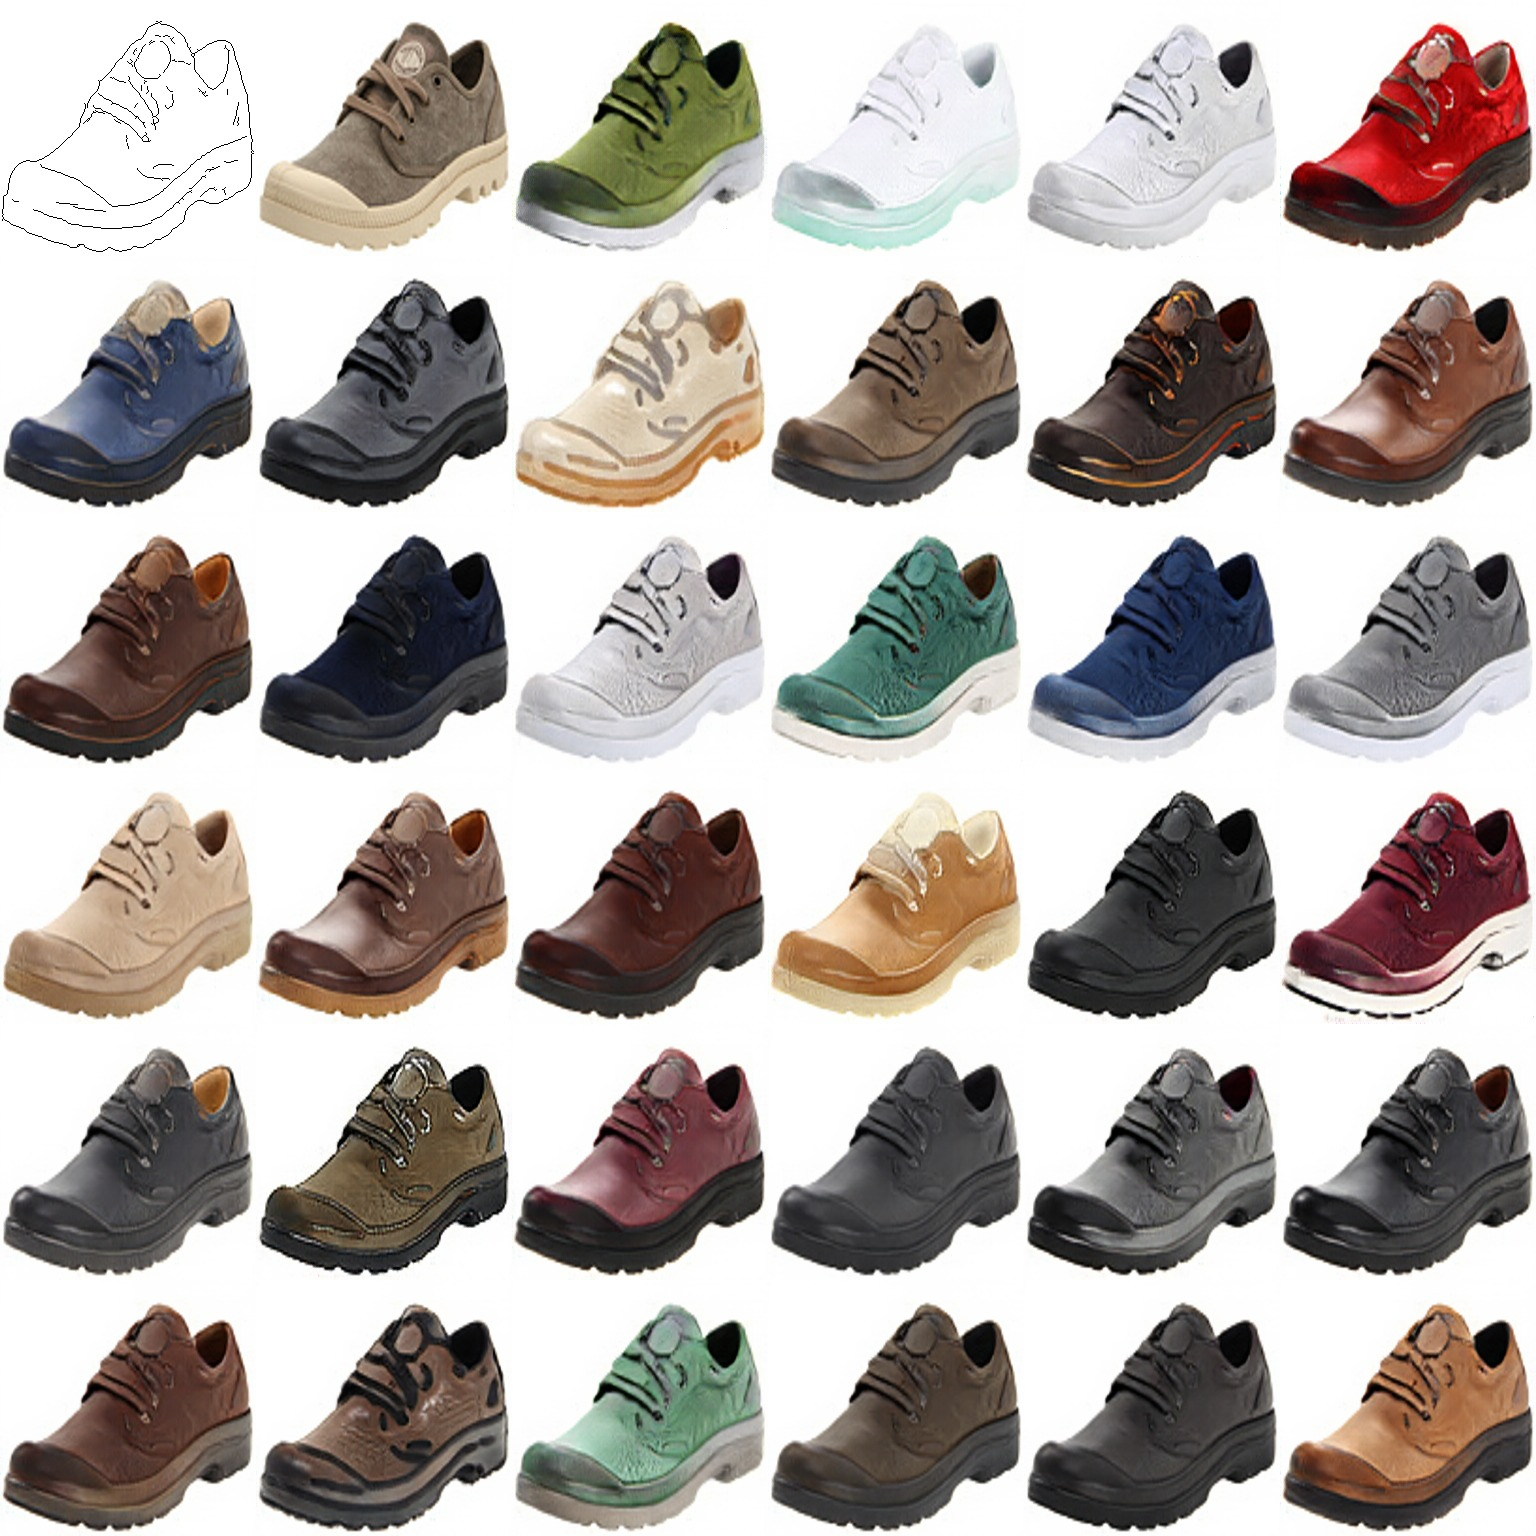
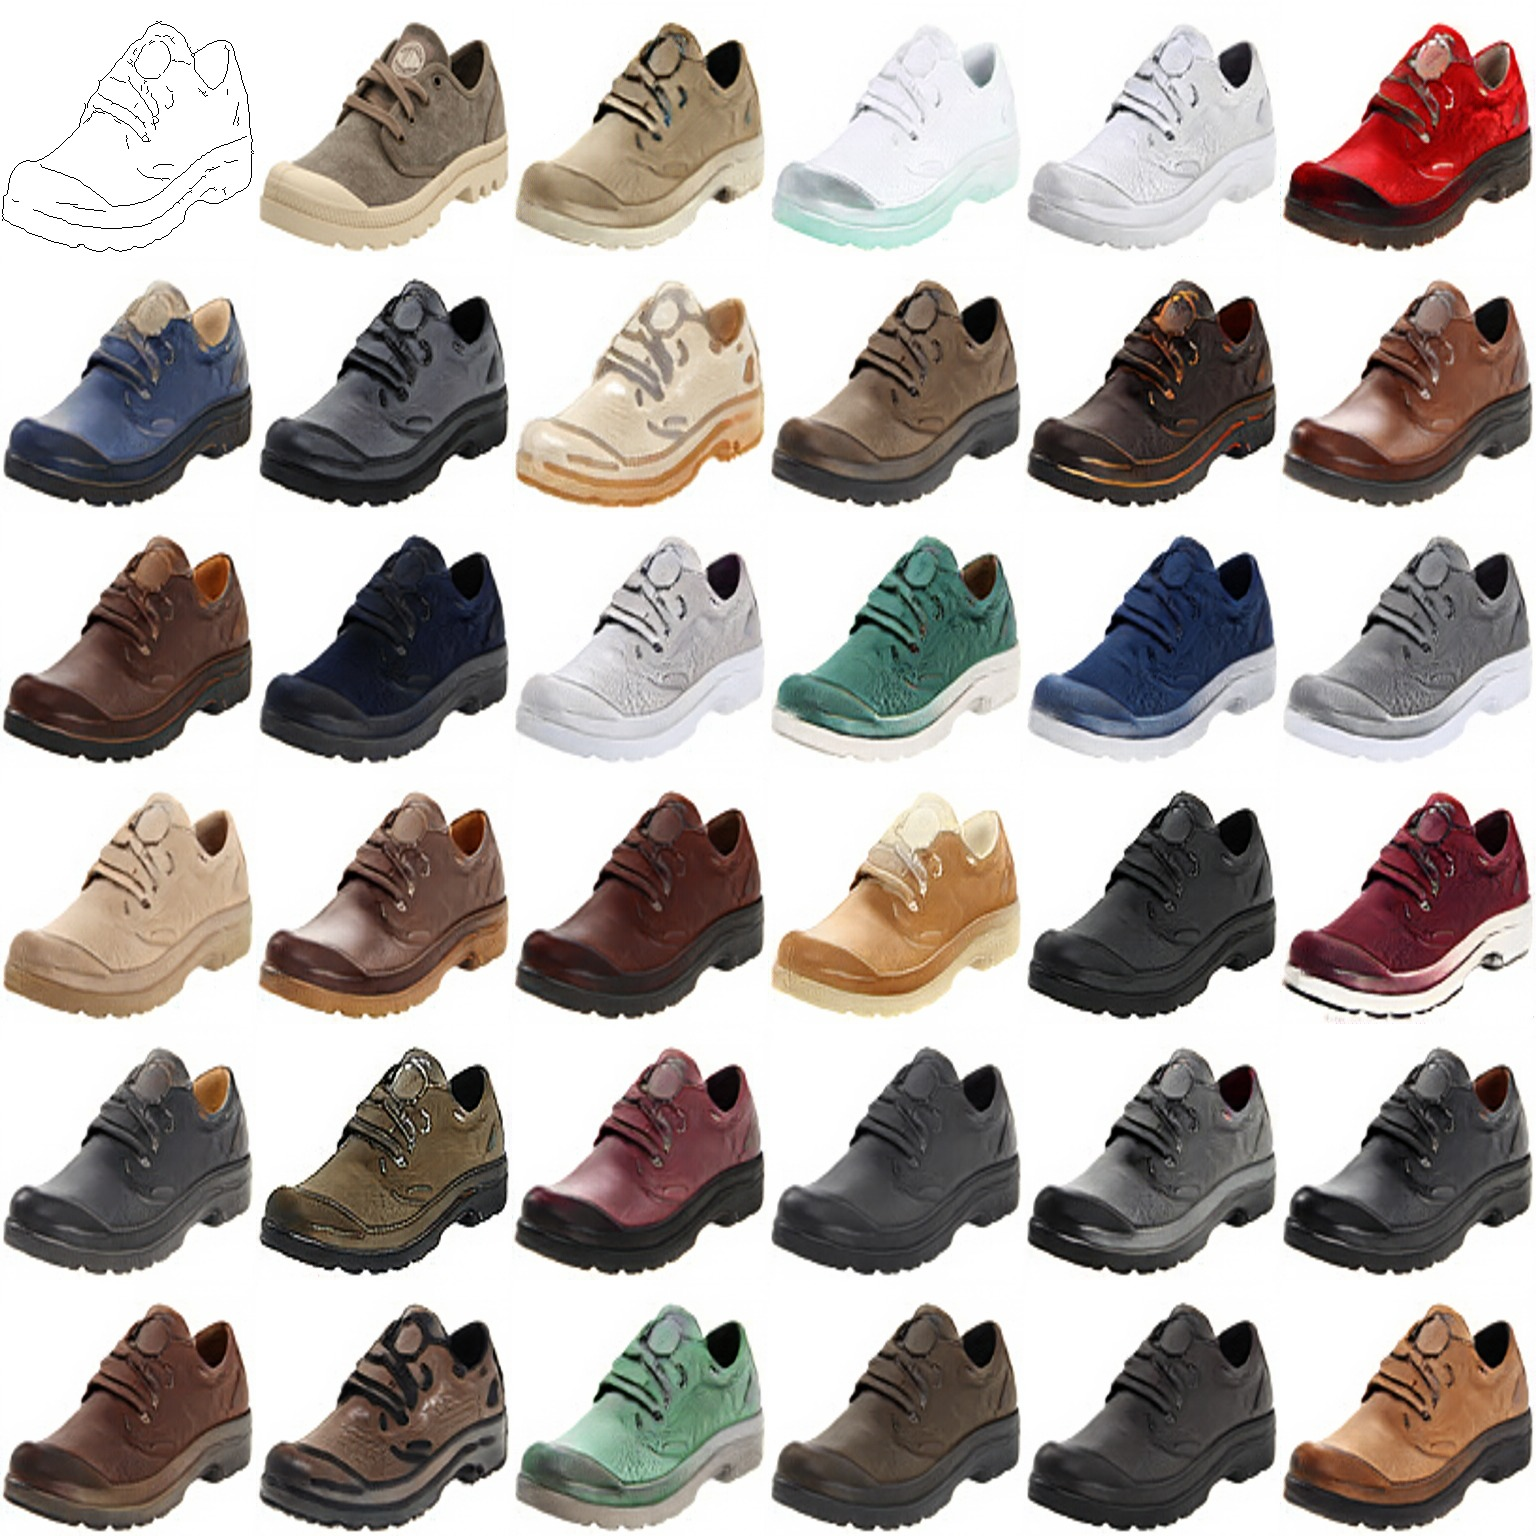
Fix E

Changed region(s): [[0.3125, 0.0, 0.5, 0.1875]]

diff --git a/examples/pytorch2chainer/infer_pytorch.py b/examples/pytorch2chainer/infer_pytorch.py
@@ -93,8 +93,8 @@ x_B = torch.from_numpy(x_B).cuda()
 x_B = torch.autograd.Variable(x_B, volatile=True)
 
 n_samples = 33
-random_state = np.random.RandomState(0)
-z_samples = random_state.normal(0, 1, (n_samples, nz)).astype(np.float32)
+np.random.seed(0)
+z_samples = np.random.normal(0, 1, (n_samples, nz)).astype(np.float32)
 
 real_A = np.repeat(real_A, 3, axis=2)
 viz = [real_A, real_B]
@@ -104,7 +104,9 @@ for i in range(1 + n_samples):
             std = logvar.mul(0.5).exp_()
             batchsize = std.size(0)
             nz = std.size(1)
-            eps = torch.autograd.Variable(torch.randn(batchsize, nz)).cuda()
+            eps = np.random.normal(0, 1, (batchsize, nz)).astype(np.float32)
+            eps = torch.autograd.Variable(
+                torch.from_numpy(eps).cuda(), volatile=True)
             return eps.mul(std).add_(mu)
 
         mu, logvar = E.forward(x_B)

diff --git a/examples/pytorch2chainer/infer_chainer.py b/examples/pytorch2chainer/infer_chainer.py
@@ -82,8 +82,8 @@ x_B = cuda.to_gpu(x_B)
 x_B = chainer.Variable(x_B)
 
 n_samples = 33
-random_state = np.random.RandomState(0)
-z_samples = random_state.normal(0, 1, (n_samples, nz)).astype(np.float32)
+np.random.seed(0)
+z_samples = np.random.normal(0, 1, (n_samples, nz)).astype(np.float32)
 
 real_A = np.repeat(real_A, 3, axis=2)
 viz = [real_A, real_B]
@@ -95,7 +95,7 @@ for i in range(1 + n_samples):
             nz = std.shape[1]
             eps = np.random.normal(0, 1, (batchsize, nz)).astype(np.float32)
             eps = chainer.Variable(cuda.to_gpu(eps))
-            return eps * std + mu
+            return (eps * std) + mu
 
         mu, logvar = E(x_B)
         z = get_z(mu, logvar)

diff --git a/examples/pytorch2chainer/lib/models.py b/examples/pytorch2chainer/lib/models.py
@@ -205,9 +205,12 @@ class E_ResNet(chainer.Chain):
             input_ndf = ndf * min(max_ndf, n)  # 2**(n-1)
             output_ndf = ndf * min(max_ndf, n + 1)  # 2**n
             conv_layers += [
-                BasicBlock(input_ndf, output_ndf, norm_layer, nl_layer)]
+                BasicBlock(input_ndf, output_ndf, norm_layer, nl_layer),
+            ]
         conv_layers += [
-            nl_layer_func, lambda x: F.average_pooling_2d(x, ksize=8)]
+            nl_layer_func,
+            lambda x: F.average_pooling_2d(x, ksize=8),
+        ]
         with self.init_scope():
             if vaeLike:
                 self.fc = Sequential(*[L.Linear(output_ndf, output_nc)])
